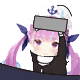
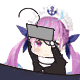
Aqua qingchu Aqua

diff --git a/FrontEnd/Elements/AquaLoading.py b/FrontEnd/Elements/AquaLoading.py
@@ -2,17 +2,17 @@ from FrontEnd.Elements.Element import Element
 import pygame
 class AquaLoading(Element):
     images = []
-    for _ in range(0,5):
+    for _ in range(0,4):
         url = './resources/AquaLoading/aqualoading '+str(_)+'.png'
         img = pygame.image.load(url)
-        img = pygame.transform.scale(img,(160,160))
+        img = pygame.transform.smoothscale(img,(160,160))
         images.append(img)
     def __init__(self,process,location):
         Element.__init__(self,process)
         self.location = location
         self.surface = AquaLoading.images[0]
     def update(self):
-        self.counter = (self.counter+1)%25      
+        self.counter = (self.counter+1)%20     
         self.surface = AquaLoading.images[self.counter//5]
         return
 
